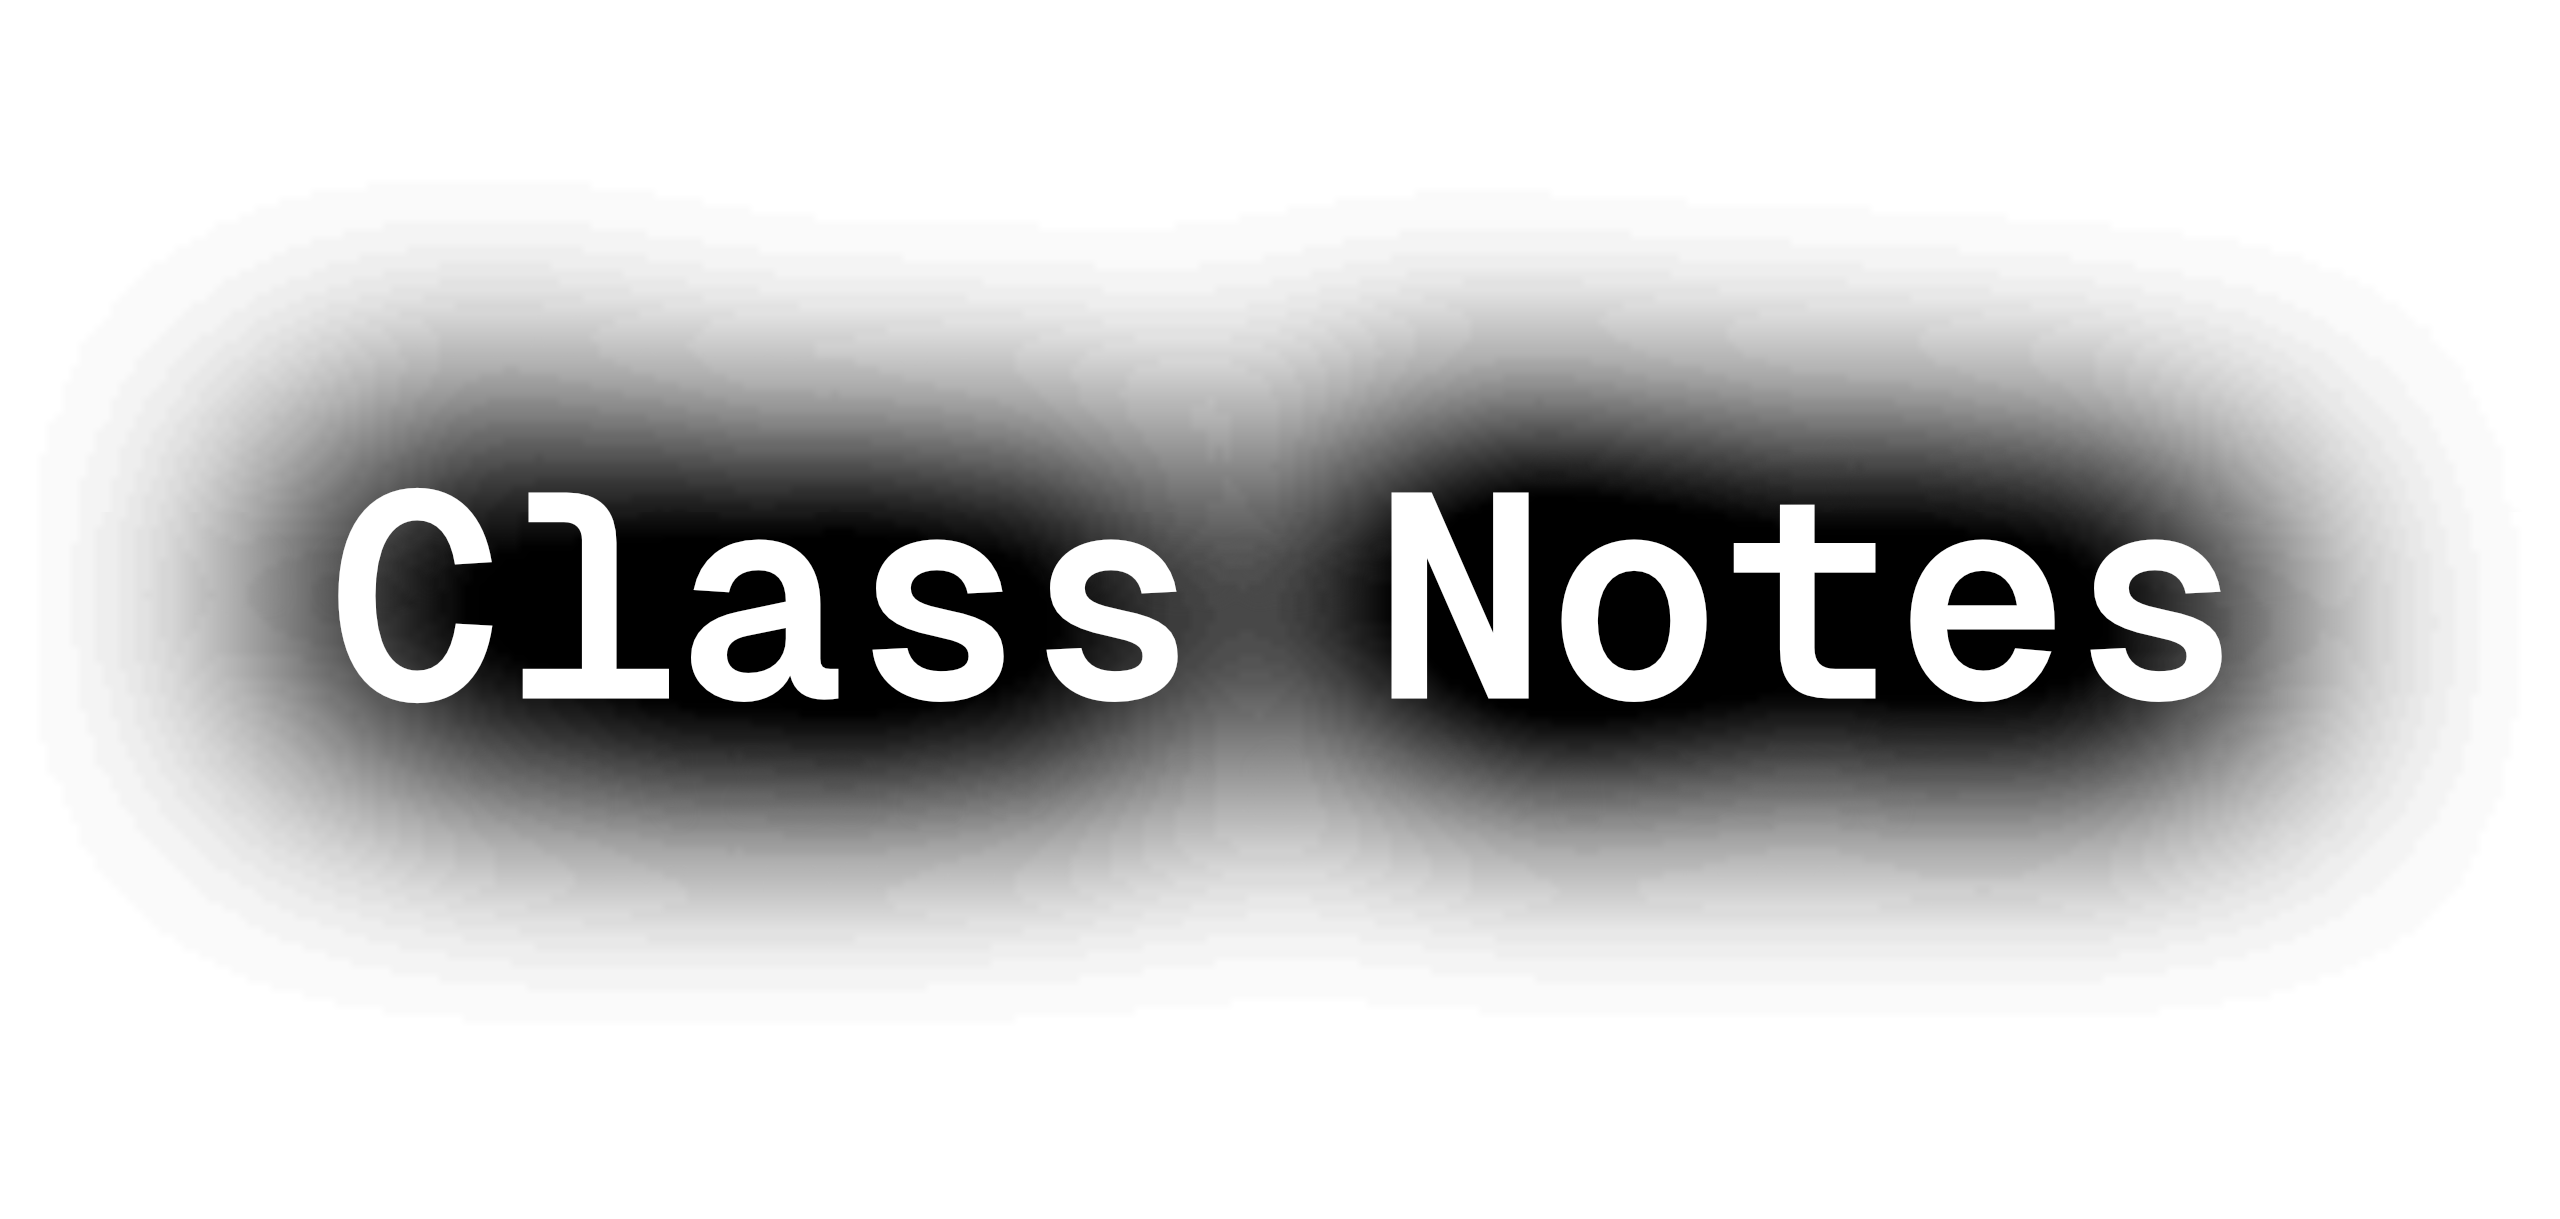
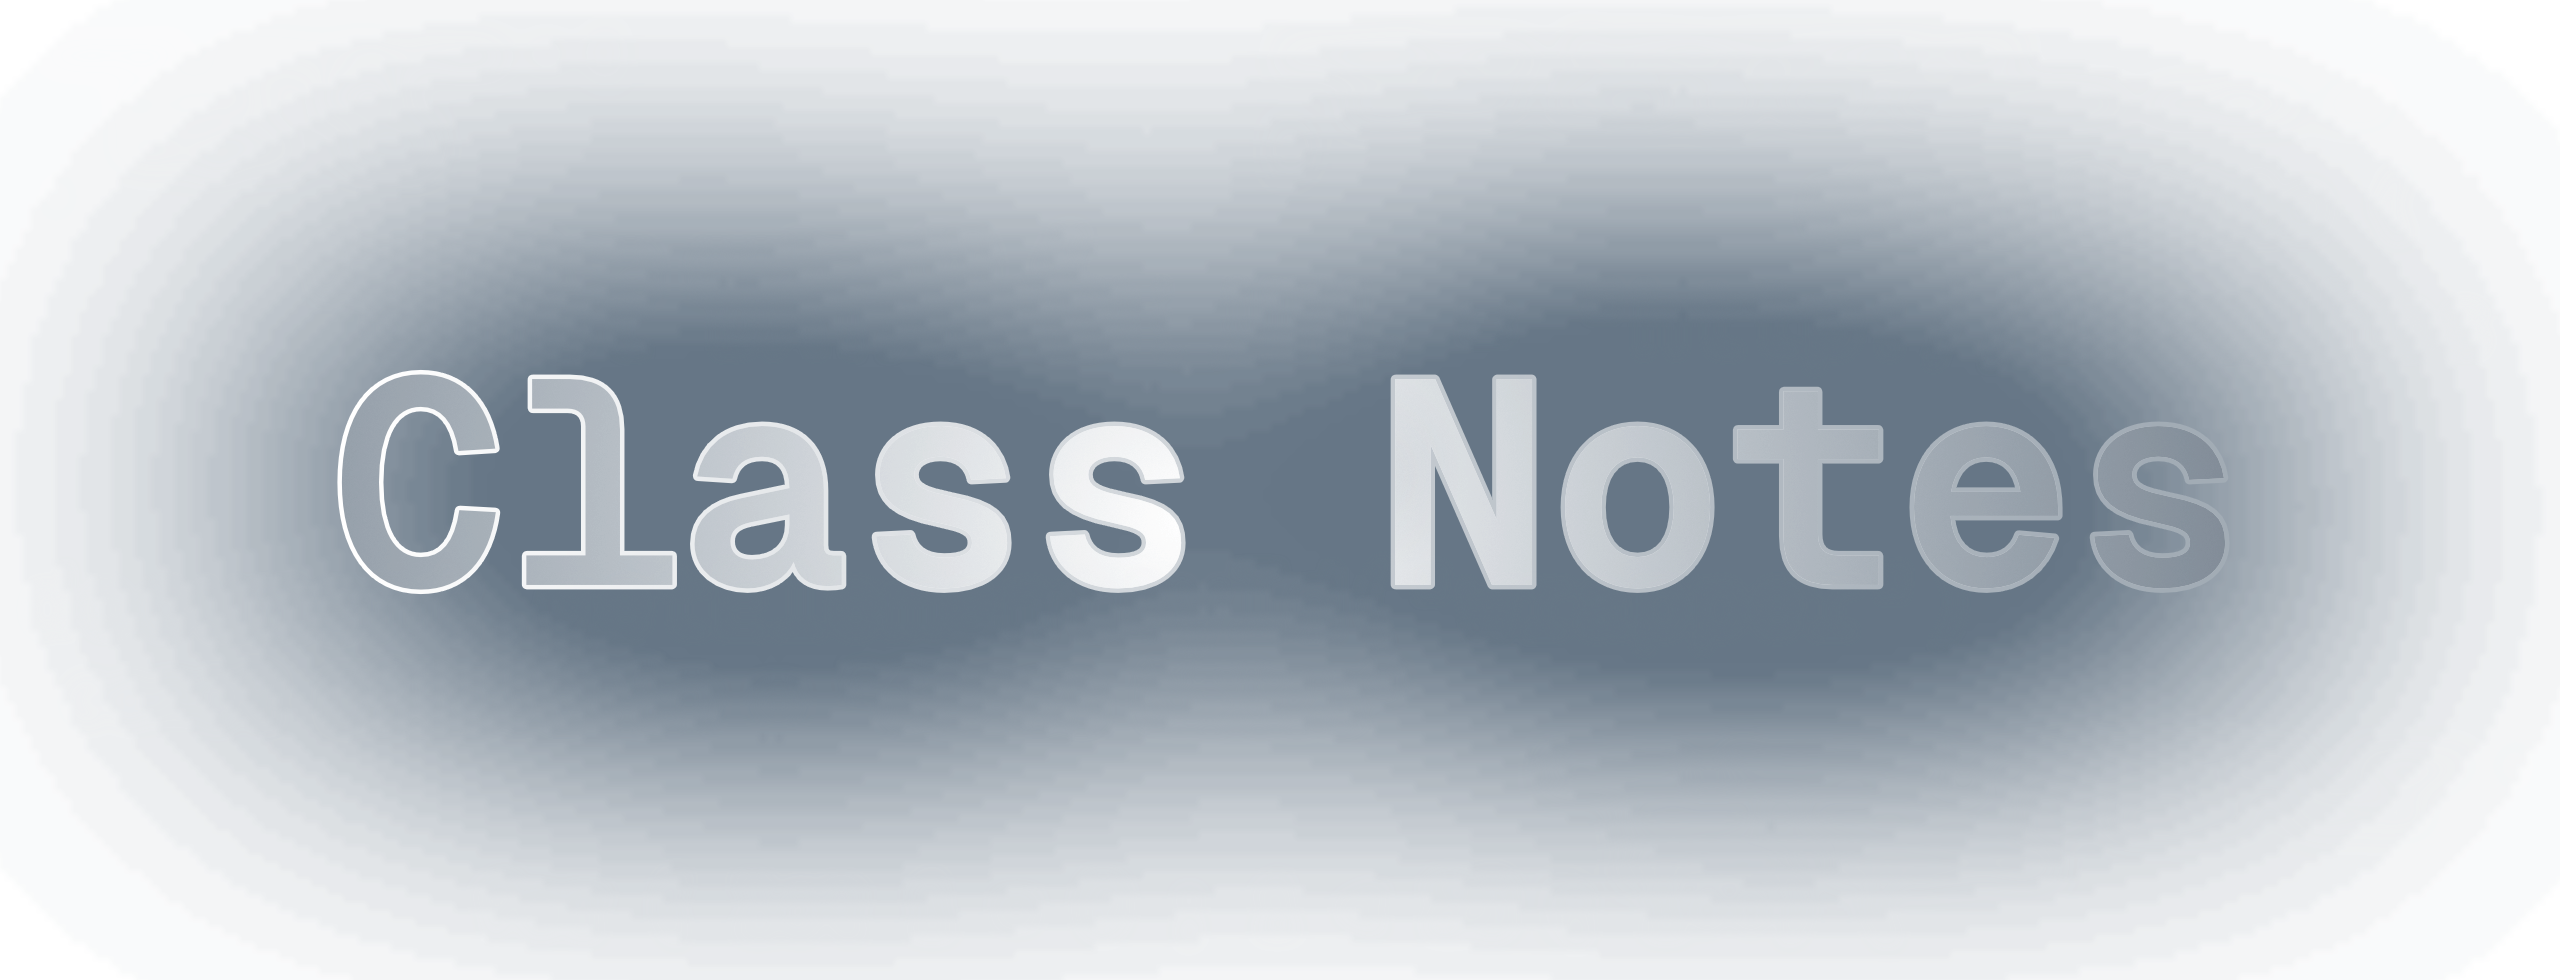
Fri Oct 25 23:40:04 PDT 2024

diff --git a/src/styles/global.css b/src/styles/global.css
@@ -1,7 +1,16 @@
 :root {
 	--bg: black;
+	--bg-alt: #333;
 	--fc: white;
 	--accent: #ff7913;
+	--accent-two: #142d45;
+	background-color: var(--bg);
+}
+
+html {
+	background: var(--bg);
+	background: radial-gradient(circle at top, var(--accent-two), var(--bg) 90vh) no-repeat;
+	padding: 0;
 }
 
 @font-face {
@@ -25,8 +34,6 @@ body {
 	margin: 0;
 	padding: 0;
 	text-align: left;
-	background: var(--bg);
-	background: radial-gradient(circle at top, #142d45, var(--bg) 50%) no-repeat;
 	word-wrap: break-word;
 	overflow-wrap: break-word;
 	color: rgb(var(--fc));
@@ -115,7 +122,7 @@ img {
 
 code {
 	padding: 2px 5px;
-	background-color: rgb(var(--bg-alt));
+	background-color: var(--bg-alt);
 	border-radius: 2px;
 }
 

diff --git a/src/content/article/basic-javascript.md b/src/content/article/basic-javascript.md
@@ -5,6 +5,34 @@ pubDate: "Oct 25 2024"
 published: true
 ---
 
+If you haven't heard it 1,000 times yet, you certainly will if you stick to this; syntax will be different but programming concepts are the same in all languages.
+
+I'm choosing JavaScript to show you these concepts for several reasons. One being that it is popular. Popular in that it is used commonly, not necessarily that the masses hold it in high regard. Beyond that, the syntax is "C-like", meaning that it follows a basic style derived from the C programming language, which is common among many languages. Finally, it runs easily in a web browser, so we don't have to fiddle with a compiler or interpreter (more on those later) to run some basic code.
+
+### Basics
+
+It is always hard to say where the beginning is when approaching a topic as broad as programming. So somewhat arbitrarily, I will start with variables and constants.
+
+#### Variables
+
+If you really break it down, programming is just a process of modifying data. Data can come in many forms. One of the most basic forms is in that of a variable or a constant. A variable or constant is essentially just a name that we add a value to. Like so:
+
 ```javascript
-const myVariable = "some string";
+const MY_CONST = "some string";
+
+let myVariable = "a string that might change";
+
+var myOldVarialbe = "this string is likely out of date";
 ```
+
+Firstly, I'd like to distinguish a constant from a variable.
+
+##### Constants
+
+A constant is a value that cannot (or should not) be changed during the life of the program. In technical terms, a constant is immutable. Constants are useful to declare values that will be used several times throughout a program, but there is no need for the program to manipulate the value of it. If you were writing a game and you wanted to set a universal value for gravity, you would like declare `GRAVITY` as a constant.
+
+##### Variables
+
+A variable, as the name suggests, can have a value that can be changed, or a value that is mutable. This means that the value can not only be manipulated and changed, but the value can also be re-assigned (more on assignment later).
+
+I wish I could say that in JavaScript, constants were declared with `const` and variables were declared with `var`. Unfortunately, it's not that simple. JavaScript didn't used to have constants. Every value was declared as a `var`. This became a problem as it was easy to introduce bugs where a value that should have been a constant is changed inadvertently through some stray logic. Fortunately, the powers that be gifted us the `const` declaration.
